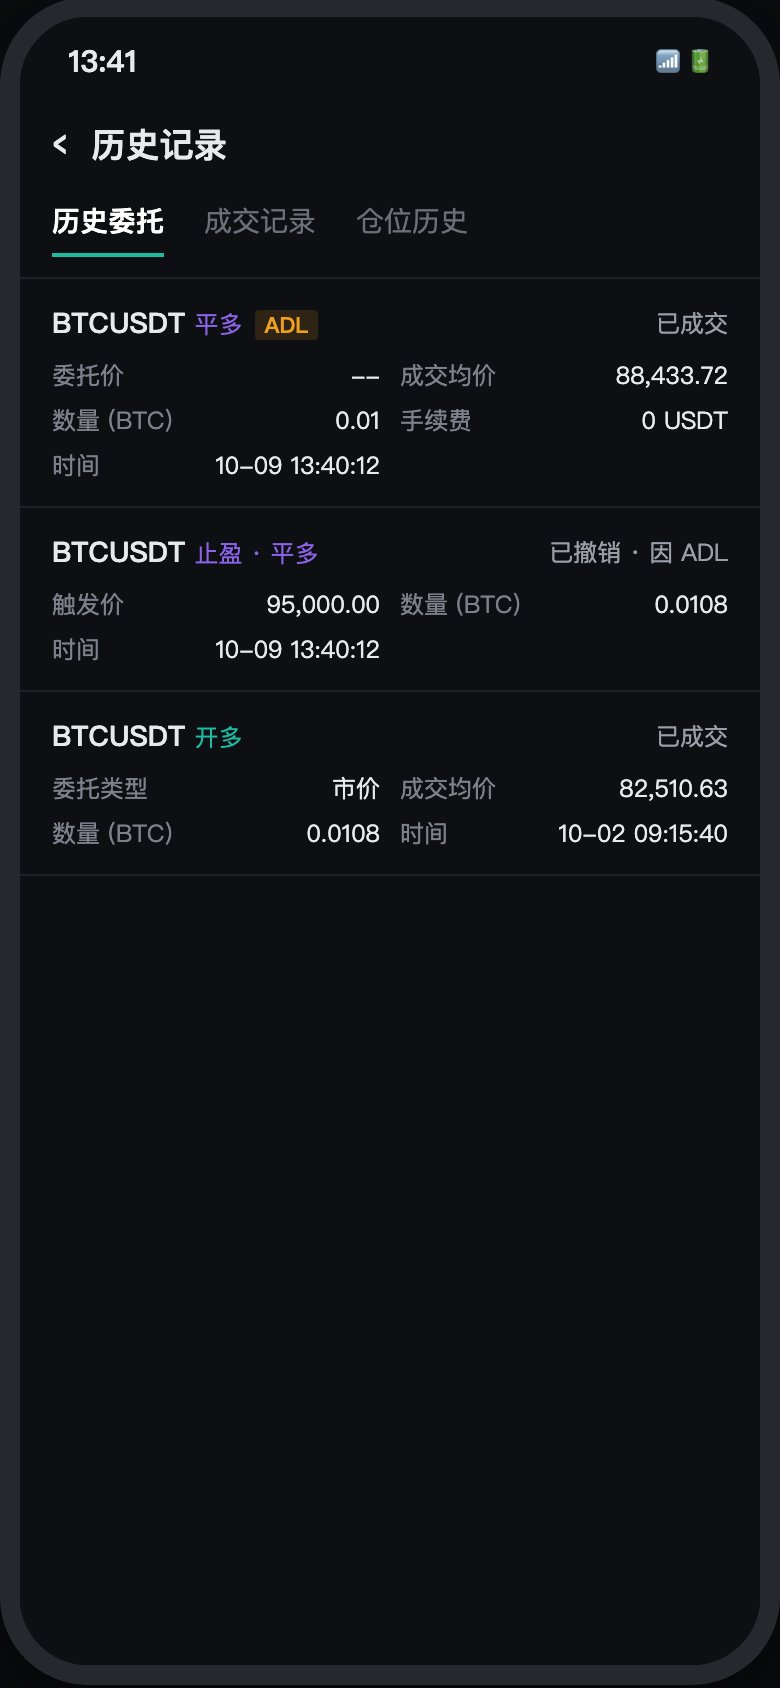
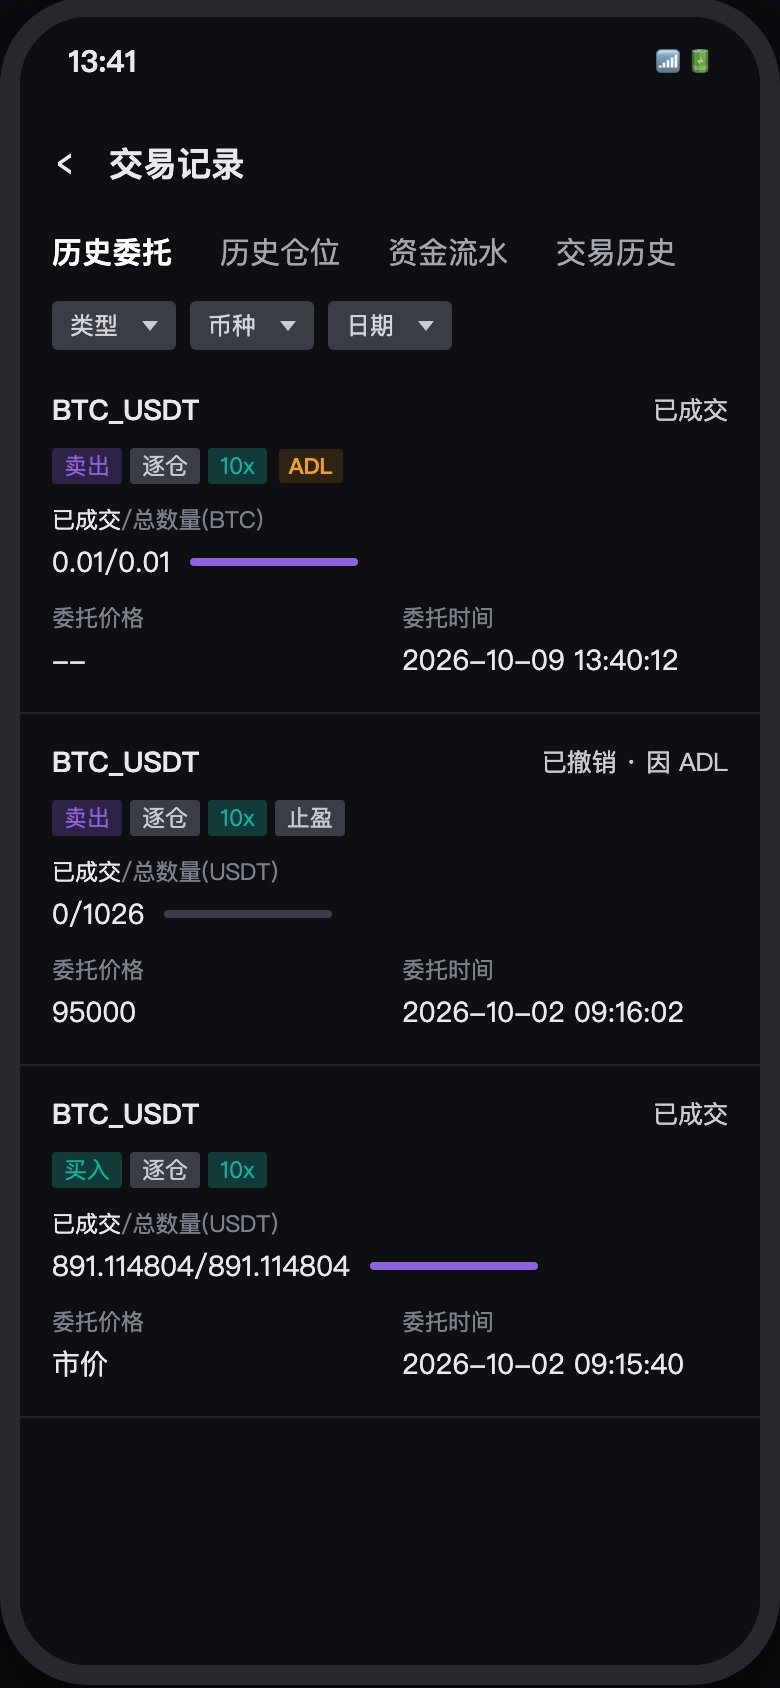
change: App历史按现有'交易记录'页重做(历史委托/历史仓位/资金流水/交易历史);资金流水不改动;PRD V1.8 同步并新增截图

diff --git a/中台ADL减仓_PRD_V1.0.html b/中台ADL减仓_PRD_V1.0.html
@@ -74,7 +74,7 @@
 
 <div class="cover">
   <h1>中台 ADL 减仓 PRD</h1>
-  <div class="ver">版本 V1.7 · 2026-10-11 · 修订人 Rhys</div>
+  <div class="ver">版本 V1.8 · 2026-10-12 · 修订人 Rhys</div>
   <div class="sub">需求类型：0→1 · 规模 L ｜ 配套原型：<a href="https://forclaudecode.vercel.app/1009-中台ADL减仓.html">1009-中台ADL减仓.html</a> ｜ 规则来源：规则台账_ADL减仓 v1.0（R01–R19）</div>
 </div>
 
@@ -172,7 +172,7 @@ stateDiagram-v2
   <tr><td>二次确认与结果</td><td>二次确认、执行中、成功 / 失败反馈</td></tr>
   <tr><td>订单 ID 明细</td><td>新增「操作人」列</td></tr>
   <tr><td rowspan="2">用户端（App / Web）</td><td>当前持仓 / 当前委托</td><td>无新增元素：仓位数量变少或消失，平仓类挂单被撤</td></tr>
-  <tr><td>历史委托 / 成交记录 / 仓位历史</td><td>ADL 标签 + 说明；撤单原因「因 ADL」；仓位历史区分部分 / 全部</td></tr>
+  <tr><td>历史委托 / 成交记录 / 仓位历史（App：历史委托 / 交易历史 / 历史仓位）</td><td>ADL 标签 + 说明；撤单原因「因 ADL」；仓位历史区分部分 / 全部；资金流水不改动</td></tr>
 </table>
 
 <h3>2.3 术语解释</h3>
@@ -303,16 +303,17 @@ flowchart LR
 </table>
 
 <h4>3.3.5 用户端 · App / Web</h4>
-<p><strong>App</strong>（从左到右：ADL 前 → 部分 ADL 后 → 全部 ADL 后 → 部分 ADL 后的历史委托；虚线框为变化项，原型标注，非实际 UI）</p><div class="phones"><figure class="fig"><img src="中台ADL减仓_PRD_assets/11_app_before.jpg" alt="图 7　ADL 前" loading="lazy"><figcaption>图 7　ADL 前</figcaption></figure><figure class="fig"><img src="中台ADL减仓_PRD_assets/12_app_partial.jpg" alt="图 8　部分 ADL 后" loading="lazy"><figcaption>图 8　部分 ADL 后</figcaption></figure><figure class="fig"><img src="中台ADL减仓_PRD_assets/13_app_full.jpg" alt="图 9　全部 ADL 后" loading="lazy"><figcaption>图 9　全部 ADL 后</figcaption></figure><figure class="fig"><img src="中台ADL减仓_PRD_assets/14_app_partial_hist.jpg" alt="图 10　历史委托" loading="lazy"><figcaption>图 10　历史委托</figcaption></figure></div><p><strong>Web</strong></p><figure class="fig"><img src="中台ADL减仓_PRD_assets/07_web_before.jpg" alt="图 11　ADL 前 · 当前持仓（含止盈 95,000）" loading="lazy"><figcaption>图 11　ADL 前 · 当前持仓（含止盈 95,000）</figcaption></figure><figure class="fig"><img src="中台ADL减仓_PRD_assets/08_web_partial.jpg" alt="图 12　部分 ADL 后 · 当前持仓：数量变为 0.0008 BTC，止盈被撤，无任何 ADL 标记" loading="lazy"><figcaption>图 12　部分 ADL 后 · 当前持仓：数量变为 0.0008 BTC，止盈被撤，无任何 ADL 标记</figcaption></figure><figure class="fig"><img src="中台ADL减仓_PRD_assets/09_web_partial_hist.jpg" alt="图 13　部分 ADL 后 · 历史委托：ADL 记录 + 「已撤销 · 因 ADL」" loading="lazy"><figcaption>图 13　部分 ADL 后 · 历史委托：ADL 记录 + 「已撤销 · 因 ADL」</figcaption></figure><figure class="fig"><img src="中台ADL减仓_PRD_assets/10_web_full_phist.jpg" alt="图 14　全部 ADL 后 · 仓位历史：「ADL 全部平仓」" loading="lazy"><figcaption>图 14　全部 ADL 后 · 仓位历史：「ADL 全部平仓」</figcaption></figure>
-<p>App 与 Web 规则一致，以下以一笔 0.0108 BTC 的多仓被减 0.01 BTC 为例。</p>
+<p><strong>App · 合约页持仓区</strong>（ADL 前 → 部分 ADL 后 → 全部 ADL 后；虚线框为变化项，原型标注，非实际 UI）＋ <strong>App · 交易记录</strong>（部分 ADL 后：历史委托 / 历史仓位 / 交易历史 / 资金流水）</p><div class="phones"><figure class="fig"><img src="中台ADL减仓_PRD_assets/11_app_before.jpg" alt="图 7　ADL 前" loading="lazy"><figcaption>图 7　ADL 前</figcaption></figure><figure class="fig"><img src="中台ADL减仓_PRD_assets/12_app_partial.jpg" alt="图 8　部分 ADL 后" loading="lazy"><figcaption>图 8　部分 ADL 后</figcaption></figure><figure class="fig"><img src="中台ADL减仓_PRD_assets/13_app_full.jpg" alt="图 9　全部 ADL 后" loading="lazy"><figcaption>图 9　全部 ADL 后</figcaption></figure><figure class="fig"><img src="中台ADL减仓_PRD_assets/14_app_partial_hist.jpg" alt="图 10　交易记录 · 历史委托" loading="lazy"><figcaption>图 10　交易记录 · 历史委托</figcaption></figure><figure class="fig"><img src="中台ADL减仓_PRD_assets/15_app_partial_pos.jpg" alt="图 10-1　交易记录 · 历史仓位" loading="lazy"><figcaption>图 10-1　交易记录 · 历史仓位</figcaption></figure><figure class="fig"><img src="中台ADL减仓_PRD_assets/16_app_partial_fill.jpg" alt="图 10-2　交易记录 · 交易历史" loading="lazy"><figcaption>图 10-2　交易记录 · 交易历史</figcaption></figure><figure class="fig"><img src="中台ADL减仓_PRD_assets/17_app_flow.jpg" alt="图 10-3　交易记录 · 资金流水（不改动）" loading="lazy"><figcaption>图 10-3　交易记录 · 资金流水（不改动）</figcaption></figure></div><p><strong>Web</strong></p><figure class="fig"><img src="中台ADL减仓_PRD_assets/07_web_before.jpg" alt="图 11　ADL 前 · 当前持仓（含止盈 95,000）" loading="lazy"><figcaption>图 11　ADL 前 · 当前持仓（含止盈 95,000）</figcaption></figure><figure class="fig"><img src="中台ADL减仓_PRD_assets/08_web_partial.jpg" alt="图 12　部分 ADL 后 · 当前持仓：数量变为 0.0008 BTC，止盈被撤，无任何 ADL 标记" loading="lazy"><figcaption>图 12　部分 ADL 后 · 当前持仓：数量变为 0.0008 BTC，止盈被撤，无任何 ADL 标记</figcaption></figure><figure class="fig"><img src="中台ADL减仓_PRD_assets/09_web_partial_hist.jpg" alt="图 13　部分 ADL 后 · 历史委托：ADL 记录 + 「已撤销 · 因 ADL」" loading="lazy"><figcaption>图 13　部分 ADL 后 · 历史委托：ADL 记录 + 「已撤销 · 因 ADL」</figcaption></figure><figure class="fig"><img src="中台ADL减仓_PRD_assets/10_web_full_phist.jpg" alt="图 14　全部 ADL 后 · 仓位历史：「ADL 全部平仓」" loading="lazy"><figcaption>图 14　全部 ADL 后 · 仓位历史：「ADL 全部平仓」</figcaption></figure>
+<p>App 与 Web 规则一致，页面名称不同：App「交易记录」页的页签为 历史委托 / 历史仓位 / 资金流水 / 交易历史，Web 为 历史委托 / 成交记录 / 仓位历史。以下以一笔 0.0108 BTC 的多仓被减 0.01 BTC 为例。ADL 记录中的数量统一用币单位（R19）；同页其他记录保持各端现有单位（App 现有为 USDT）。</p>
 <table>
   <tr><th>位置</th><th>部分 ADL 后</th><th>全部 ADL 后</th></tr>
   <tr><td>当前持仓</td><td>仓位仍在，数量变为 0.0008 BTC。未实现盈亏、保证金按剩余部分显示；开仓均价、收益率不变。<strong>不加任何 ADL 标记</strong>。指示灯按现有逻辑重新计算。</td><td>仓位消失；无其他仓位时显示「暂无持仓」。</td></tr>
   <tr><td>当前委托</td><td>该仓位的平仓类挂单全部消失，委托数相应减少。</td><td>同左。</td></tr>
-  <tr><td>历史委托</td><td colspan="2">新增一条 ADL 记录：订单类型显示「ADL」标签，方向「平多 / 平空」，委托价「--」，成交均价为标记价格，数量用币单位，状态「已成交」。被撤的挂单状态显示「已撤销 · 因 ADL」。</td></tr>
-  <tr><td>成交记录</td><td colspan="2">新增一条 ADL 成交：「ADL」标签，成交价为标记价格，数量用币单位，手续费 0，角色「--」，显示已实现盈亏。</td></tr>
-  <tr><td>仓位历史</td><td>平仓类型「ADL 部分减仓」，已平仓量 / 最大持仓（如 0.01 / 0.0108 BTC），平仓时间显示「--」，平仓盈亏。</td><td>平仓类型「ADL 全部平仓」，平仓时间为执行时间。</td></tr>
-  <tr><td>「ADL」标签说明</td><td colspan="2">Web 鼠标悬浮 / App 点击 ⓘ 时显示：「自动减仓（ADL）：系统按标记价格减少您的部分或全部仓位，本次减仓不收取手续费，减仓后您可随时重新开仓。」<span class="tag-td">⚠ P17 文案待确认</span></td></tr>
+  <tr><td>历史委托</td><td colspan="2"><strong>App</strong>：新增一张卡片，标题 BTC_USDT，状态「已成交」；标签「卖出（平多）/ 买入（平空）· 逐仓 / 全仓 · 杠杆 · ADL」；「已成交/总数量(BTC)」如 0.01/0.01，进度条满；委托价格「--」；委托时间为执行时间。被撤的平仓挂单状态显示「已撤销 · 因 ADL」。<br><strong>Web</strong>：订单类型显示「ADL」标签，方向「平多 / 平空」，委托价「--」，成交均价为标记价格，数量用币单位，状态「已成交」；被撤挂单状态「已撤销 · 因 ADL」。</td></tr>
+  <tr><td>交易历史（App）/ 成交记录（Web）</td><td colspan="2"><strong>App</strong>：卡片标题 BTCUSDT 旁加「ADL」标签；交易品种、成交数量（如 0.01 BTC）、手续费 0、成交价格（执行时标记价格）、时间、成交ID。<br><strong>Web</strong>：「ADL」标签，成交价为标记价格，数量用币单位，手续费 0，角色「--」，显示已实现盈亏。</td></tr>
+  <tr><td>历史仓位（App）/ 仓位历史（Web）</td><td>标签 / 平仓类型「ADL 部分减仓」；平仓均价、平仓数量（如 0.01 BTC）、已实现盈亏 / 收益率、开仓时间；平仓时间显示「--」。</td><td>「ADL 全部平仓」，平仓时间为执行时间。</td></tr>
+  <tr><td>资金流水（App）</td><td colspan="2"><strong>不改动</strong>。ADL 与普通平仓一样，不在资金流水中产生记录（R20）。</td></tr>
+  <tr><td>「ADL」标签说明</td><td colspan="2">Web 鼠标悬浮 / App 点击「ADL」标签时显示：「自动减仓（ADL）：系统按标记价格减少您的部分或全部仓位，本次减仓不收取手续费，减仓后您可随时重新开仓。」<span class="tag-td">⚠ P17 文案待确认</span></td></tr>
   <tr><td>通知</td><td colspan="2">本期不发站内信、邮件、短信、推送 <span class="tag-td">⚠ P05</span></td></tr>
 </table>
 
@@ -404,9 +405,9 @@ flowchart LR
 </div>
 
 <div class="api">
-<h4>5.5 资金流水 / 对账（调整）</h4>
+<h4>5.5 平台账户对账（调整）</h4>
 <ul>
-  <li>用户交易账户流水新增类型「ADL 已实现盈亏」。</li>
+  <li>用户侧资金流水不新增类型：ADL 与普通平仓一样不产生资金流水记录（R20）。</li>
   <li>平台账户流水新增类型「ADL 承接盈亏」，关联持仓 ID、订单 ID、操作人，供财务按日对账（R03：无对手仓位，多空持仓总量不再对等）。</li>
 </ul>
 </div>
@@ -438,6 +439,7 @@ flowchart LR
   <tr><td>V1.5</td><td>2026-10-11</td><td>初稿（评审前）</td><td>中台原型按现有中台页面重做样式（左侧导航、按钮与文字取色、分页器、浅 / 深两套主题），补充「中台样式规范」；「确认减仓」改主色蓝、「确认执行」改平仓红；图 1–6 重截</td><td>PM 要求中台 UI 样式与按钮颜色全部对齐现有中台</td></tr>
   <tr><td>V1.6</td><td>2026-10-11</td><td>初稿（评审前）</td><td>原型左侧导航只保留「当前持仓列表」；图 1、图 5 重截</td><td>PM 反馈</td></tr>
   <tr><td>V1.7</td><td>2026-10-11</td><td>初稿（评审前）</td><td>减仓弹窗：仓位信息中的持仓量 / 可平量、累计已 ADL 改为跟随减仓数量的单位切换；输入框占位文字随单位变化</td><td>PM 反馈</td></tr>
+  <tr><td>V1.8</td><td>2026-10-12</td><td>初稿（评审前）</td><td>App 历史按现有「交易记录」页重做（历史委托 / 历史仓位 / 资金流水 / 交易历史，卡片样式与筛选项对齐现有页面）；资金流水明确不改动、ADL 不产生流水记录；5.5 删除「用户流水新增 ADL 类型」；新增图 10-1～10-3</td><td>PM 提供现有 App 交易记录页</td></tr>
 </table>
 
 </div></div>

diff --git a/1009-中台ADL减仓.html b/1009-中台ADL减仓.html
@@ -253,11 +253,30 @@ table.grid{border-collapse:separate;border-spacing:0;min-width:2900px;width:100%
 /* 历史页 */
 .ph-page{position:absolute;inset:0;background:#0e0f13;z-index:8;display:none;flex-direction:column}
 .ph-page.show{display:flex}
-.ph-page .bar{display:flex;align-items:center;gap:12px;padding:6px 16px 10px;font-size:17px;font-weight:600}
-.ph-page .bar .back{font-size:20px;cursor:pointer}
-.ph-htabs{display:flex;gap:20px;padding:4px 16px 10px;border-bottom:1px solid #1f2127}
-.ph-htabs span{font-size:14px;color:#6b6f78;cursor:pointer;padding-bottom:6px}
-.ph-htabs span.on{color:#fff;font-weight:600;border-bottom:2px solid #1db9a3}
+.ph-page .bar{display:flex;align-items:center;gap:18px;padding:14px 18px 18px;font-size:17px;font-weight:700}
+.ph-page .bar .back{font-size:22px;cursor:pointer;font-weight:400}
+.ph-htabs{display:flex;gap:24px;padding:0 16px 14px}
+.ph-htabs span{font-size:15px;color:#a3a6ad;cursor:pointer}
+.ph-htabs span.on{color:#fff;font-weight:700}
+.ph-chips{display:flex;gap:7px;padding:0 16px 6px}
+.ph-chips span{background:#3a3d45;color:#d3d5d9;font-size:12px;border-radius:3px;padding:4px 9px;display:inline-flex;align-items:center;gap:12px}
+.ph-chips span:after{content:'';border:4px solid transparent;border-top:5px solid #c9cbd0;margin-top:4px}
+.tc{padding:14px 16px 16px;border-bottom:1px solid #22242b}
+.tc .hd{display:flex;justify-content:space-between;align-items:center;font-size:14px;font-weight:700;margin-bottom:9px}
+.tc .hd .st{font-size:12.5px;font-weight:400;color:#c9cbd0}
+.tc .tags{display:flex;gap:4px;margin-bottom:10px;align-items:center}
+.tc .tg{font-size:11.5px;padding:1px 6px;border-radius:2px;background:#3a3d45;color:#c9cbd0}
+.tc .tg.b{background:#123a37;color:#0fb4a0}.tc .tg.s{background:#2c2347;color:#8e63df}
+.tc .g2{display:grid;grid-template-columns:1fr 1fr;gap:10px 12px}
+.tc .k{font-size:11.5px;color:#7d818b;margin-bottom:3px}
+.tc .k b{color:#e8e9ec;font-weight:400}
+.tc .v{font-size:14px;color:#e8e9ec;font-variant-numeric:tabular-nums}
+.tc .prog{display:flex;align-items:center;gap:10px;margin-bottom:10px}
+.tc .v.a-up{color:#0fb4a0}.tc .v.a-down{color:#8e63df}
+.tc .bar2{width:84px;height:4px;border-radius:2px;background:#3a3d45;overflow:hidden}
+.tc .bar2 i{display:block;height:100%;background:#8e63df}
+.tc .mt{margin-bottom:10px}
+.tc-note{margin:6px 16px 4px;border:1px dashed #6b5a2a;border-radius:6px;padding:8px 10px;font-size:11.5px;color:#d8c58a;line-height:1.6}
 .hc{padding:12px 16px;border-bottom:1px solid #1f2127}
 .hc .t{display:flex;justify-content:space-between;align-items:center;margin-bottom:8px;font-size:14px;font-weight:600}
 .hc .t .st{font-size:12px;font-weight:400;color:#9a9ea7}
@@ -419,8 +438,9 @@ table.grid{border-collapse:separate;border-spacing:0;min-width:2900px;width:100%
    </div>
    <div class="ph-page" id="aHist">
     <div class="ph-status"><span>13:41</span><span style="font-size:12px">📶 🔋</span></div>
-    <div class="bar"><span class="back" onclick="aHist(false)">‹</span>历史记录</div>
-    <div class="ph-htabs" id="aHTabs"><span data-h="ord" class="on">历史委托</span><span data-h="fill">成交记录</span><span data-h="pos">仓位历史</span></div>
+    <div class="bar"><span class="back" onclick="aHist(false)">‹</span>交易记录</div>
+    <div class="ph-htabs" id="aHTabs"><span data-h="ord" class="on">历史委托</span><span data-h="pos">历史仓位</span><span data-h="flow">资金流水</span><span data-h="fill">交易历史</span></div>
+    <div class="ph-chips" id="aChips"></div>
     <div id="aHBody" style="overflow-y:auto;flex:1"></div>
    </div>
    <div class="ph-nav"><span>⌂<br>首页</span><span>◎<br>探索</span><span class="on">▤<br>合约</span><span>⟳<br>流动池</span><span>▣<br>资产</span></div>
@@ -771,16 +791,27 @@ function aRender(){
 function aHist(show,tab){if(tab)aHTab=tab;$('aHist').classList.toggle('show',show);aHRender()}
 function aHRender(){
   document.querySelectorAll('#aHTabs span').forEach(s=>s.classList.toggle('on',s.dataset.h===aHTab));
-  const done=aState!=='before',z=ADLZ[aState]||0,q=bz(z),pnl=(A.mark-A.entry)*q;
-  const adlOrd=`<div class="hc"><div class="t"><span>BTCUSDT <span style="color:#8b63e8;font-weight:400;font-size:12px">平多</span><span class="adl-b">ADL</span></span><span class="st">已成交</span></div>
-    <div class="kv"><div><span class="k">委托价</span><span>--</span></div><div><span class="k">成交均价</span><span>${af(A.mark)}</span></div><div><span class="k">数量 (BTC)</span><span>${q}</span></div><div><span class="k">手续费</span><span>0 USDT</span></div><div><span class="k">时间</span><span>10-09 13:40:12</span></div></div></div>`;
-  const tpCancel=`<div class="hc"><div class="t"><span>BTCUSDT <span style="color:#8b63e8;font-weight:400;font-size:12px">止盈 · 平多</span></span><span class="st">已撤销 · 因 ADL</span></div>
-    <div class="kv"><div><span class="k">触发价</span><span>95,000.00</span></div><div><span class="k">数量 (BTC)</span><span>0.0108</span></div><div><span class="k">时间</span><span>10-09 13:40:12</span></div></div></div>`;
-  const openOrd=`<div class="hc"><div class="t"><span>BTCUSDT <span style="color:#1db9a3;font-weight:400;font-size:12px">开多</span></span><span class="st">已成交</span></div>
-    <div class="kv"><div><span class="k">委托类型</span><span>市价</span></div><div><span class="k">成交均价</span><span>${af(A.entry)}</span></div><div><span class="k">数量 (BTC)</span><span>0.0108</span></div><div><span class="k">时间</span><span>10-02 09:15:40</span></div></div></div>`;
-  const posH=done?`<div class="hc"><div class="t"><span>BTCUSDT <span style="color:#1db9a3;font-weight:400;font-size:12px">多 · 逐仓 10x</span><span class="adl-b">${aState==='full'?'ADL 全部平仓':'ADL 部分减仓'}</span></span></div>
-    <div class="kv"><div><span class="k">开仓均价</span><span>${af(A.entry)}</span></div><div><span class="k">平仓均价</span><span>${af(A.mark)}</span></div><div><span class="k">已平 / 最大持仓</span><span>${q} / 0.0108</span></div><div><span class="k">平仓盈亏</span><span class="a-up">+${af(pnl)}</span></div><div><span class="k">平仓时间</span><span>${aState==='full'?'10-09 13:40:12':'--'}</span></div></div></div>`:'';
-  const H={ord:(done?adlOrd+tpCancel:'')+openOrd,fill:(done?adlOrd.replace('已成交','<span class="a-up">+'+af(pnl)+' USDT</span>'):'')+openOrd.replace('已成交',''),pos:posH||'<div class="ph-empty">暂无仓位历史</div>'};
+  const CH={ord:['类型','币种','日期'],pos:['币种','交易方向','日期'],flow:['币种','类型','日期'],fill:['币种','日期']};
+  $('aChips').innerHTML=CH[aHTab].map(c=>`<span>${c}</span>`).join('');
+  const done=aState!=='before',z=ADLZ[aState]||0,q=bz(z),pnl=(A.mark-A.entry)*q,roe=(A.mark-A.entry)/A.entry*A.lev*100,T='2026-10-09 13:40:12';
+  const adlTag=t=>`<span class="adl-b" style="margin-left:2px">${t}</span>`;
+  const kv=(k,v,cls='')=>`<div><div class="k">${k}</div><div class="v ${cls}">${v}</div></div>`;
+  const prog=(lab,a,b,full)=>`<div class="k"><b>已成交</b>/总数量(${lab})</div><div class="prog"><span class="v">${a}/${b}</span><span class="bar2"><i style="width:${full?100:0}%"></i></span></div>`;
+  const ordCard=(st,tags,progHtml,price,time)=>`<div class="tc"><div class="hd"><span>BTC_USDT</span><span class="st">${st}</span></div><div class="tags">${tags}</div>${progHtml}<div class="g2">${kv('委托价格',price)}${kv('委托时间',time)}</div></div>`;
+  const openNotional=af(0.0108*A.entry,6).replace(/,/g,'');
+  const H={};
+  H.ord=(done?ordCard('已成交','<span class="tg s">卖出</span><span class="tg">逐仓</span><span class="tg b">10x</span>'+adlTag('ADL'),prog('BTC',q,q,true),'--',T)
+        +ordCard('已撤销 · 因 ADL','<span class="tg s">卖出</span><span class="tg">逐仓</span><span class="tg b">10x</span><span class="tg">止盈</span>',prog('USDT',0,'1026',false),'95000','2026-10-02 09:16:02'):'')
+        +ordCard('已成交','<span class="tg b">买入</span><span class="tg">逐仓</span><span class="tg b">10x</span>',prog('USDT',openNotional,openNotional,true),'市价','2026-10-02 09:15:40');
+  const posCard=(tags,cls,price,qty,pr,ot,ct)=>`<div class="tc"><div class="hd"><span>BTC_USDT</span></div><div class="tags">${tags}</div><div class="g2">${kv('平仓均价',price)}${kv('平仓数量',qty)}${kv('已实现盈亏/收益率',pr,cls)}${kv('开仓时间',ot)}${kv('平仓时间',ct)}</div></div>`;
+  H.pos=(done?posCard('<span class="tg b">多</span><span class="tg">逐仓</span><span class="tg b">10x</span>'+adlTag(aState==='full'?'ADL 全部平仓':'ADL 部分减仓'),'a-up',A.mark.toFixed(2),q+' BTC',`+${pnl.toFixed(4)} / +${roe.toFixed(2)}%`,'2026-10-02 09:15:40',aState==='full'?T:'--'):'')
+        +posCard('<span class="tg b">多</span><span class="tg">逐仓</span><span class="tg b">26x</span>','a-down','63978.49','176.259825 USDT','-2.1451 / -40.84%','2026-03-30 06:49:18','2026-06-04 08:24:51');
+  const flowCard=(amt,time,id)=>`<div class="tc"><div class="hd"><span>BTCUSDT</span></div><div class="g2">${kv('数量',amt+' USDT','a-down')}${kv('类型','资金费用')}${kv('时间',time)}${kv('成交ID',id)}</div></div>`;
+  H.flow=`<div class="tc-note">原型标注：资金流水本期不改动。ADL 与普通平仓一样，不在资金流水中产生记录（R20）。</div>`
+        +flowCard('-0.0075','2026-10-09 08:00:00','679733940931543306')+flowCard('-0.0008','2026-10-09 00:00:00','679613146448544010');
+  const fillCard=(tag,qty,fee,price,time,id)=>`<div class="tc"><div class="hd"><span>BTCUSDT${tag}</span></div><div class="g2">${kv('交易品种','BTCUSDT')}${kv('成交数量',qty)}${kv('手续费',fee)}${kv('成交价格',price)}${kv('时间',time)}${kv('成交ID',id)}</div></div>`;
+  H.fill=(done?fillCard(adlTag('ADL'),q+' BTC','0',af(A.mark),T,'678732191894668611'):'')
+        +fillCard('',openNotional+' USDT','0.4456',af(A.entry),'2026-10-02 09:15:40','678732191894668544');
   $('aHBody').innerHTML=H[aHTab];
 }
 function uRender(){
